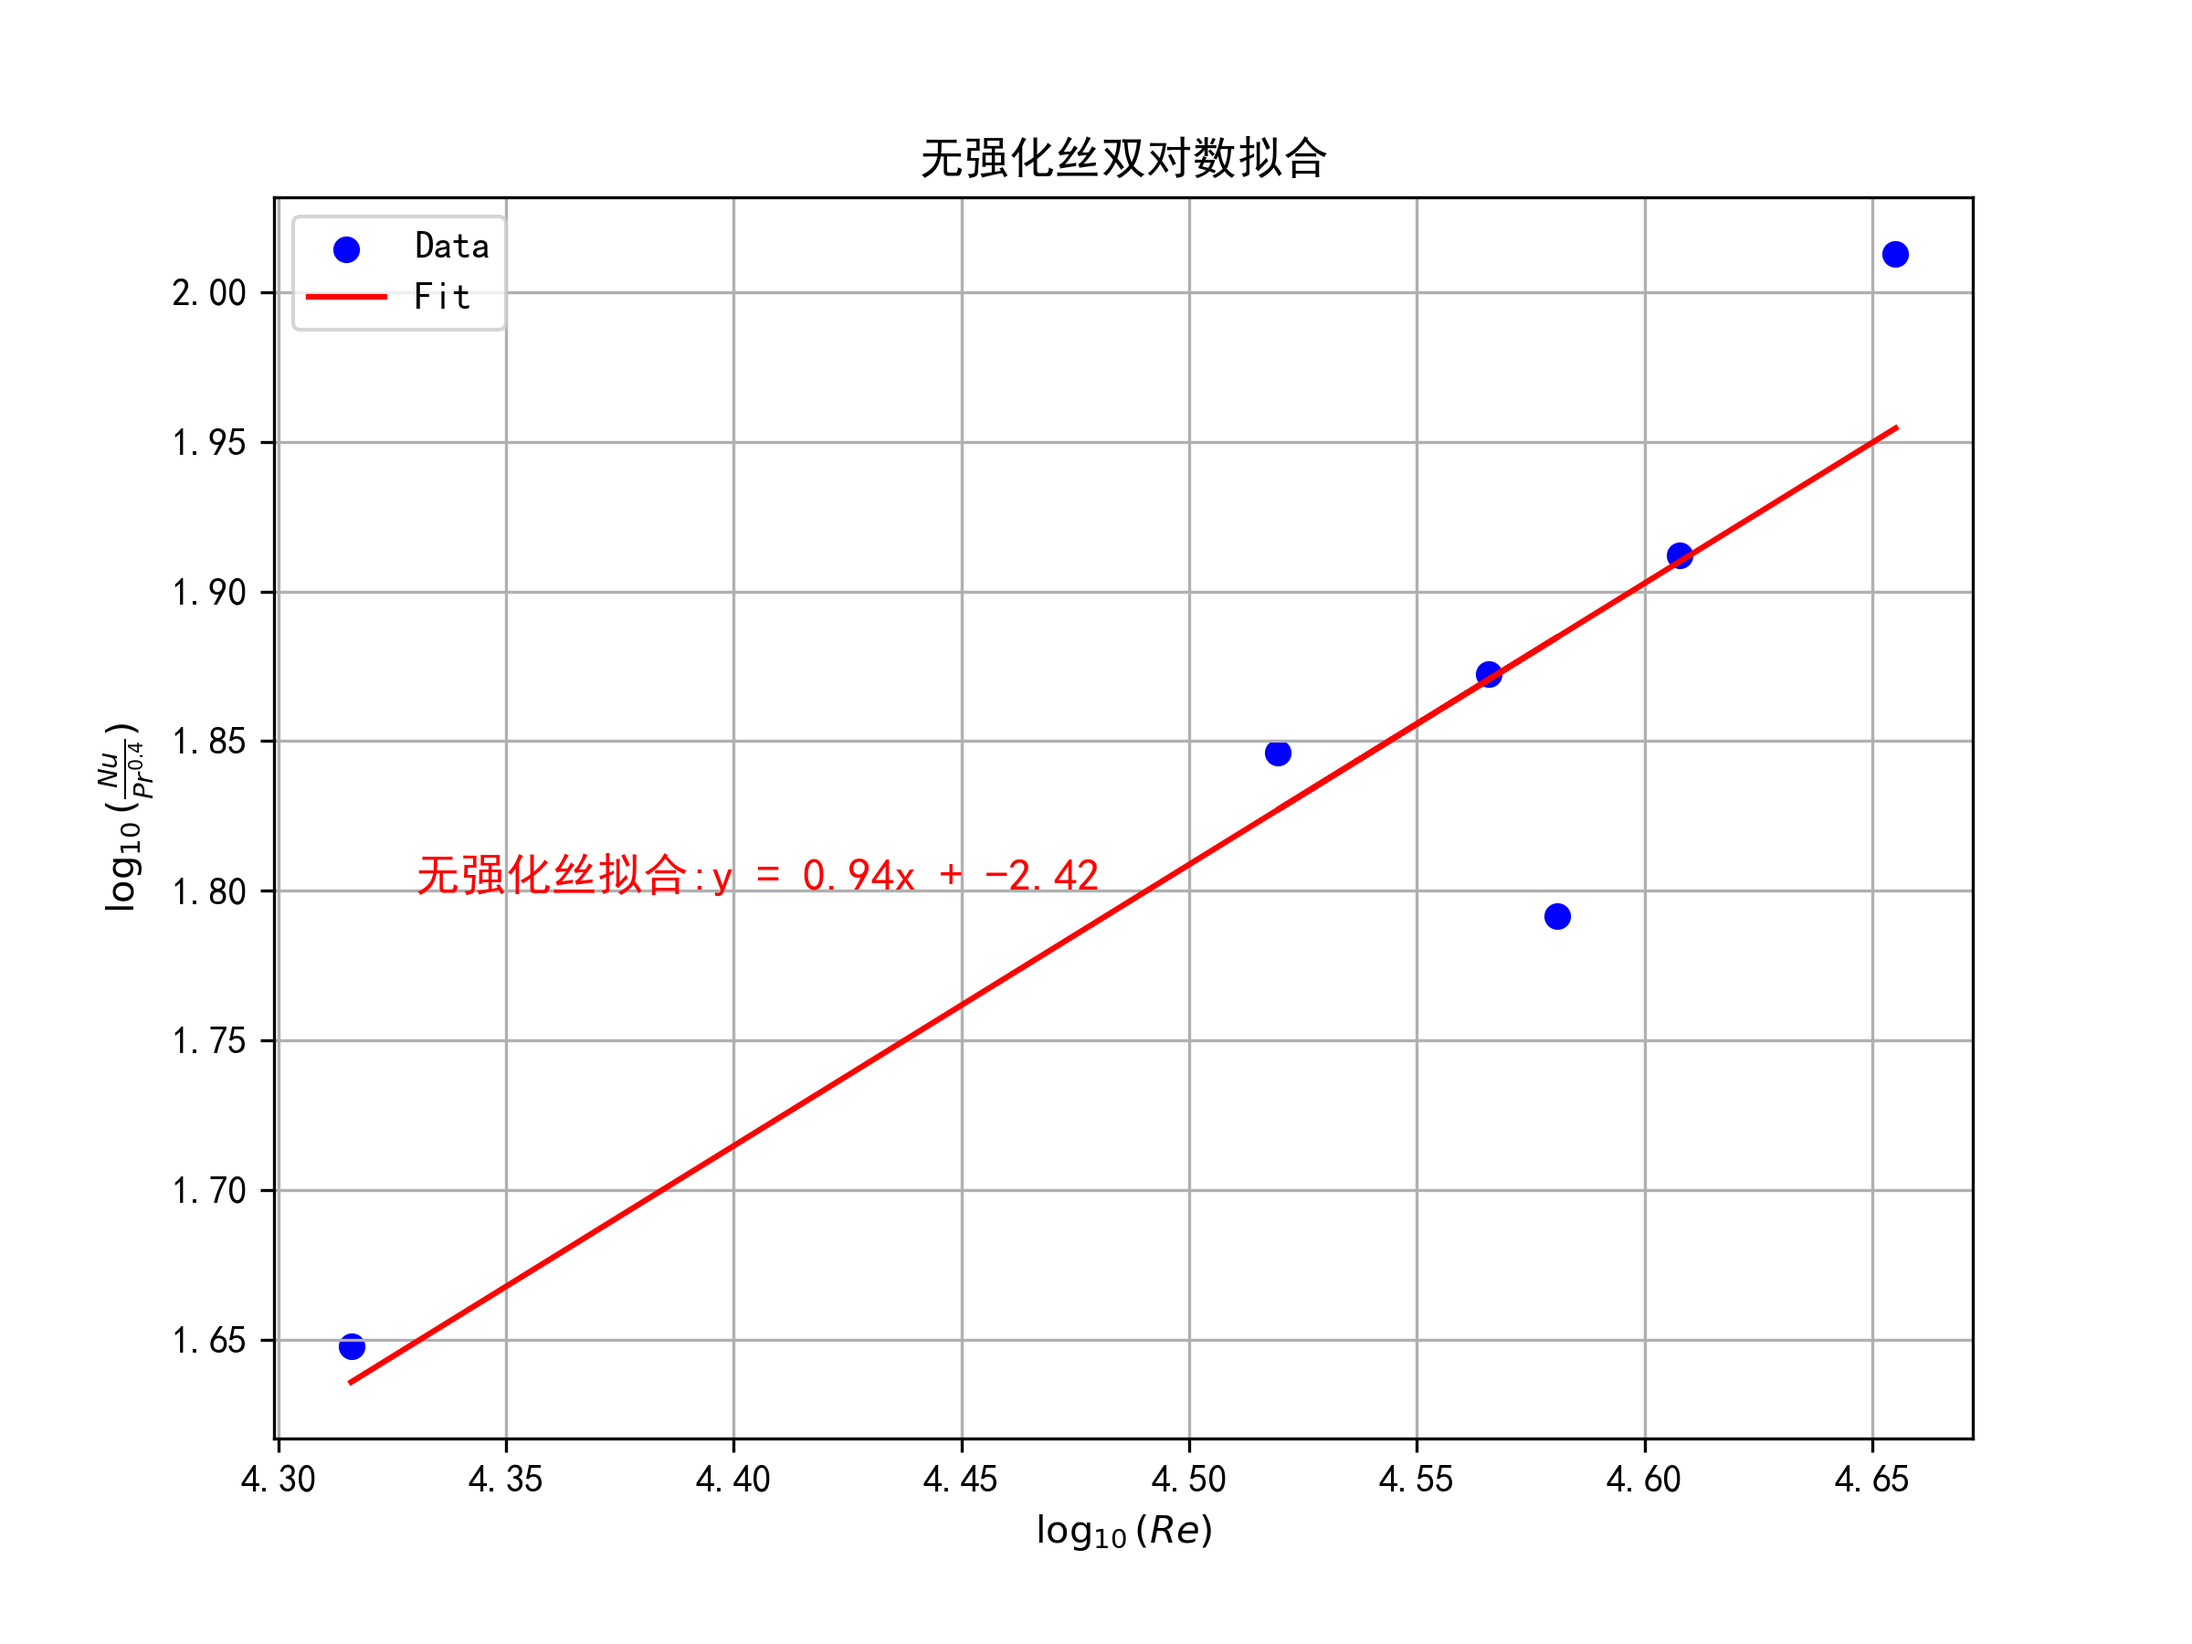
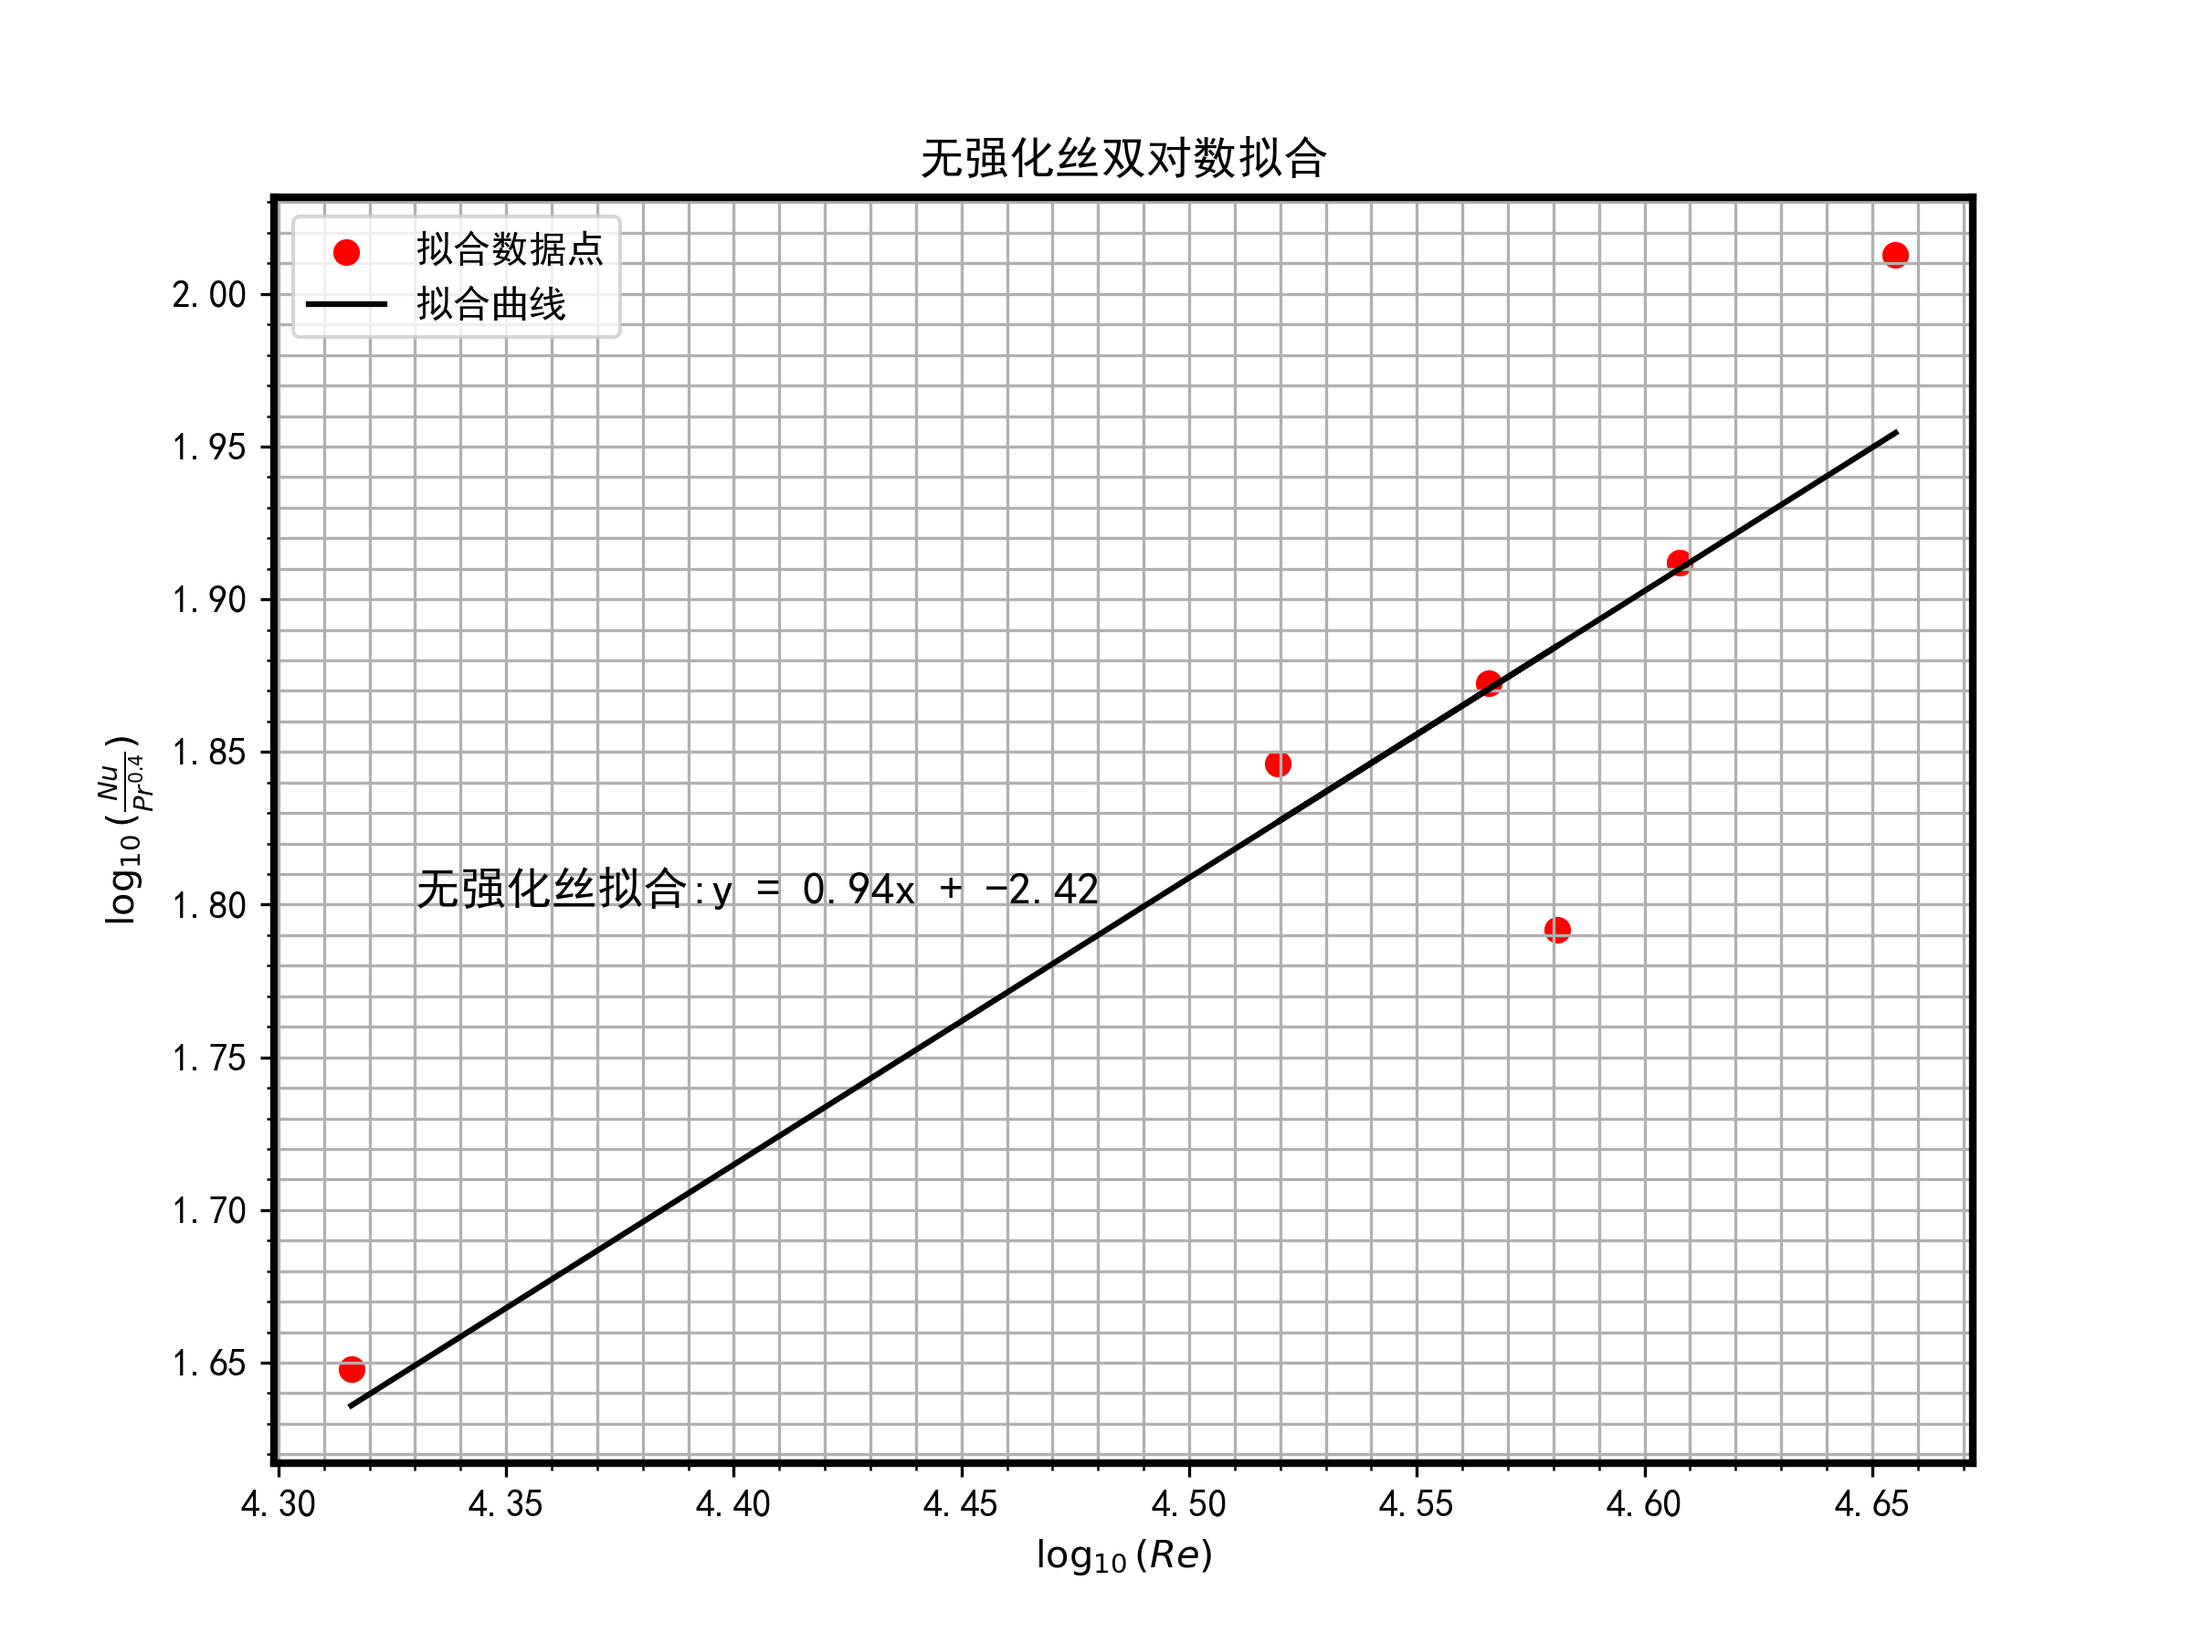
Adjust Image Format
调整绘图样式，包括数据点样式，文字样式，拟合线样式

Changed region(s): [[0.0938, 0.0933, 0.9062, 0.9644], [0.0312, 0.4356, 0.0625, 0.56]]

diff --git a/传热/传热拟合3.py b/传热/传热拟合3.py
@@ -40,23 +40,31 @@ plt.rcParams['axes.unicode_minus'] = False
 plt.figure(figsize=(8, 6))
 
 # 无强化丝数据及拟合直线
-plt.scatter(log_re_no_enhancement, log_nu_pr_no_enhancement, color='blue', label='无强化丝数据')
-plt.plot(log_re_no_enhancement, fit_fn_no_enhancement(log_re_no_enhancement), color='red', label='无强化丝拟合线')
+plt.scatter(log_re_no_enhancement, log_nu_pr_no_enhancement, color='b', label='无强化丝数据')
+plt.plot(log_re_no_enhancement, fit_fn_no_enhancement(log_re_no_enhancement), color='k', label='无强化丝拟合线')
 
 # 有强化丝数据及拟合直线
-plt.scatter(log_re_enhancement, log_nu_pr_enhancement, color='green', label='有强化丝数据')
-plt.plot(log_re_enhancement, fit_fn_enhancement(log_re_enhancement), color='orange', label='有强化丝拟合线')
+plt.scatter(log_re_enhancement, log_nu_pr_enhancement, color='r', label='有强化丝数据')
+plt.plot(log_re_enhancement, fit_fn_enhancement(log_re_enhancement), color='k', label='有强化丝拟合线')
 
 plt.xlabel(r'$\log_{10}(Re)$')
 plt.ylabel(r'$\log_{10}(\frac{Nu}{Pr^{0.4}})$')
 plt.title('有强化丝vs.无强化丝')
 
 # 添加拟合方程
-plt.text(4.25, 1.80, f'无强化丝拟合方程: y = {fit_no_enhancement[0]:.2f}x + {fit_no_enhancement[1]:.2f}', fontsize=10, color='red')
-plt.text(4.10, 1.70, f'有强化丝拟合方程: y = {fit_enhancement[0]:.2f}x + {fit_enhancement[1]:.2f}', fontsize=10, color='orange')
+plt.text(4.3, (fit_fn_no_enhancement(log_re_no_enhancement)[0]+fit_fn_no_enhancement(log_re_no_enhancement)[-1])/2,
+         f'无强化丝拟合方程: y = {fit_no_enhancement[0]:.2f}x + {fit_no_enhancement[1]:.2f}', fontsize=10, color='k')
+plt.text(4.3, (fit_fn_enhancement(log_re_enhancement)[0]+fit_fn_enhancement(log_re_enhancement)[-1])/2,
+         f'有强化丝拟合方程: y = {fit_enhancement[0]:.2f}x + {fit_enhancement[1]:.2f}', fontsize=10, color='k')
 
-plt.legend()
-plt.grid(True)
+plt.grid(True,which='both')
+plt.minorticks_on()
+
+plt.gca().spines['top'].set_linewidth(2)
+plt.gca().spines['bottom'].set_linewidth(2)
+plt.gca().spines['left'].set_linewidth(2)
+plt.gca().spines['right'].set_linewidth(2)
+
 plt.savefig("./拟合图结果/3.png",dpi=300)
-plt.show()
 
+plt.show()

diff --git a/传热/传热拟合1.py b/传热/传热拟合1.py
@@ -29,14 +29,21 @@ plt.rcParams['axes.unicode_minus'] = False
 
 # 绘制双对数图
 plt.figure(figsize=(8, 6))
-plt.scatter(log_re, log_nu_pr, color='blue', label='Data')
-plt.plot(log_re, fit_fn(log_re), color='red', label='Fit')
+plt.scatter(log_re, log_nu_pr, color='r', label='拟合数据点')
+plt.plot(log_re, fit_fn(log_re), color='k', label='拟合曲线')
 plt.xlabel(r'$\log_{10}(Re)$')
 plt.ylabel(r'$\log_{10}(\frac{Nu}{Pr^{0.4}})$')
 plt.title('无强化丝双对数拟合')
-plt.text(4.33,1.8, f'无强化丝拟合:y = {fit[0]:.2f}x + {fit[1]:.2f}', fontsize=12, color='red')
+plt.text(4.33,1.8, f'无强化丝拟合:y = {fit[0]:.2f}x + {fit[1]:.2f}', fontsize=12, color='k')
 plt.legend()
-plt.grid(True)
+plt.grid(True,which='both')
+plt.minorticks_on()
+
+plt.gca().spines['top'].set_linewidth(2)
+plt.gca().spines['bottom'].set_linewidth(2)
+plt.gca().spines['left'].set_linewidth(2)
+plt.gca().spines['right'].set_linewidth(2)
+
 plt.savefig("./拟合图结果/1.png",dpi=300)
 plt.show()
 

diff --git a/传热/传热拟合2.py b/传热/传热拟合2.py
@@ -29,15 +29,22 @@ plt.rcParams['axes.unicode_minus'] = False
 
 # 绘制双对数图
 plt.figure(figsize=(8, 6))
-plt.scatter(log_re, log_nu_pr, color='blue', label='Data')
-plt.plot(log_re, fit_fn(log_re), color='red', label='Fit')
+plt.scatter(log_re, log_nu_pr, color='r', label='拟合数据点')
+plt.plot(log_re, fit_fn(log_re), color='k', label='拟合曲线')
 plt.xlabel(r'$\log_{10}(Re)$')
 plt.ylabel(r'$\log_{10}(\frac{Nu}{Pr^{0.4}})$')
 plt.title('有强化丝双对数拟合')
-plt.text(4.3,1.8, f'有强化丝拟合:y = {fit[0]:.2f}x + {fit[1]:.2f}', fontsize=12, color='red')
+plt.text(4.3,1.8, f'有强化丝拟合:y = {fit[0]:.2f}x + {fit[1]:.2f}', fontsize=12, color='k')
 
 plt.legend()
-plt.grid(True)
+plt.grid(True,which='both')
+plt.minorticks_on()
+
+plt.gca().spines['top'].set_linewidth(2)
+plt.gca().spines['bottom'].set_linewidth(2)
+plt.gca().spines['left'].set_linewidth(2)
+plt.gca().spines['right'].set_linewidth(2)
+
 plt.savefig("./拟合图结果/2.png",dpi=300)
 plt.show()
 
